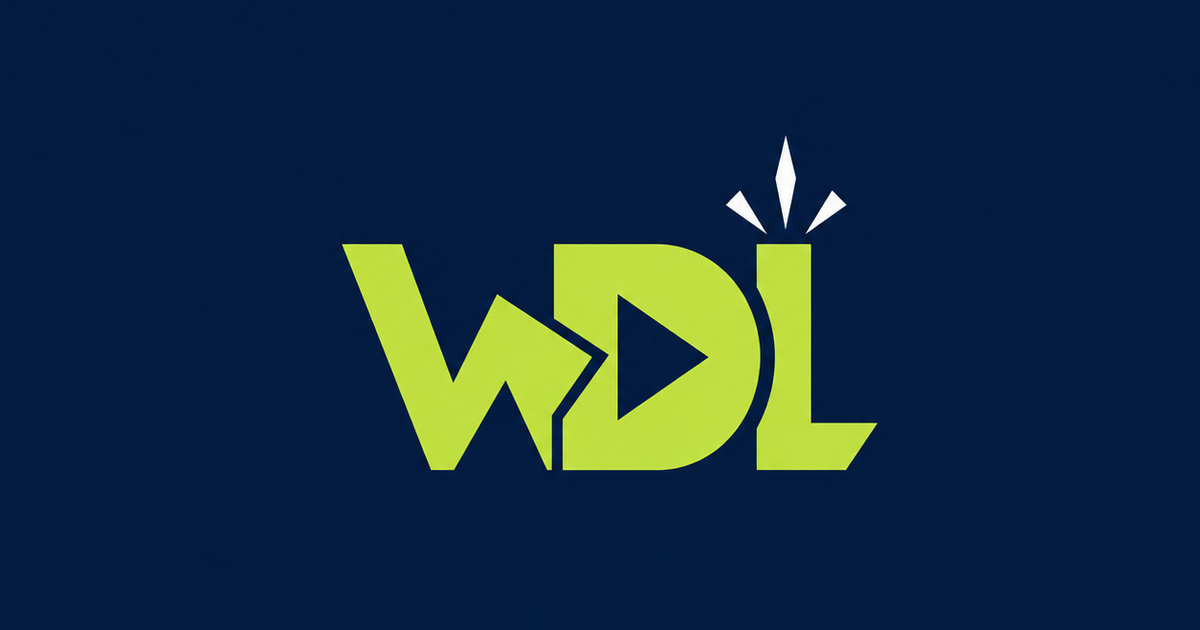
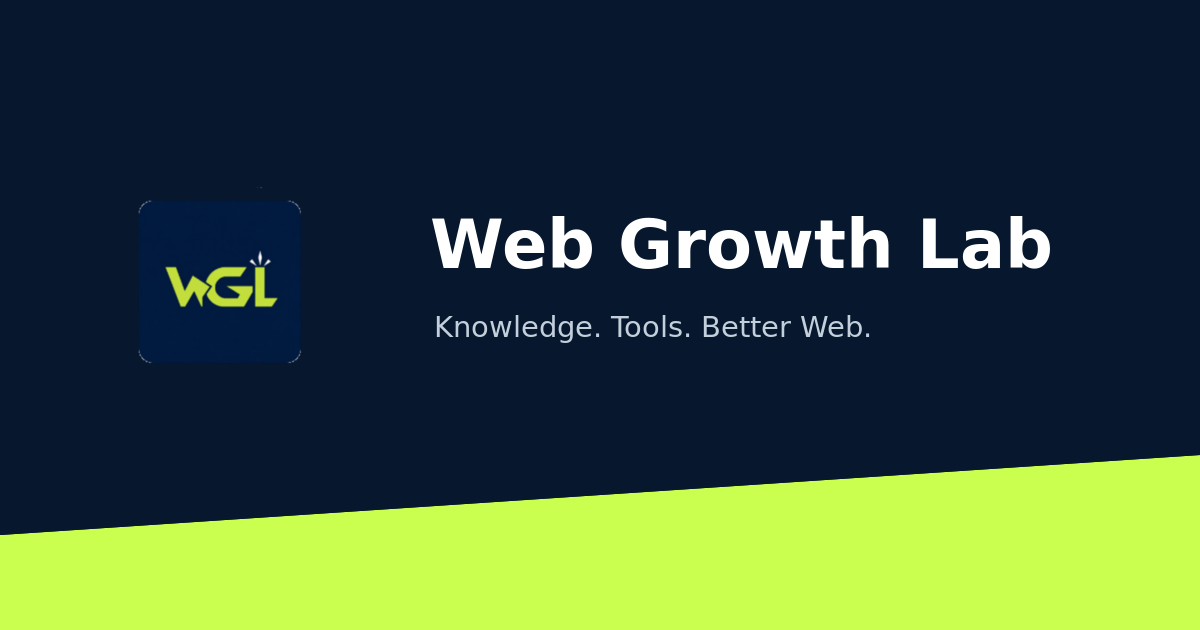
Refresh Web Growth Lab branding and content UI

diff --git a/app/about/page.tsx b/app/about/page.tsx
@@ -1,21 +1,22 @@
 import type { Metadata } from "next";
 import { SiteFooter, SiteHeader } from "../components/SiteChrome";
 
-export const metadata: Metadata = { title:"このサイトについて｜Web Direction Lab", description:"Web Direction Labの目的、提供する知識・ツール・サービス、記事作成・編集方針、AI利用、プライバシーについてご案内します。" };
+export const metadata: Metadata = { title:"このサイトについて｜Web Growth Lab", description:"Web Growth Labの目的、運営者情報、提供する知識・ツール・サービス、記事作成・編集方針、AI利用、プライバシーについてご案内します。" };
 
 const sections = [
-  { id:"site", number:"01", title:"サイトについて", body:<><p>Web Direction Labは、<mark>Webで成果を出すための知識・ツール・サービスを提供するプラットフォーム</mark>です。情報を発信するだけでなく、学ぶ、使う、相談するまでを一つにつなげます。</p><dl><div><dt>サイトの目的</dt><dd>Web制作・SEO・AI・業務改善の知識を、実際の判断と改善へつなげること。</dd></div><div><dt>対象となる方</dt><dd>中小企業、個人事業主、社内Web担当者、Webディレクター、制作担当者。</dd></div><div><dt>提供すること</dt><dd>実務ナレッジ、無料ツール・テンプレート、Webサイト診断・改善・制作・運用支援。</dd></div></dl></> },
-  { id:"contents", number:"02", title:"提供内容について", body:<><p>WDLでは、3つの入口を用意します。</p><dl><div><dt>学ぶ</dt><dd>Webガイド、ナレッジ、コラム、ニュースを通じて、基礎から最新情報、実務の考え方まで整理します。</dd></div><div><dt>使う</dt><dd>確認作業や業務改善を支える無料ツール、テンプレート、AIプロンプトを順次公開します。</dd></div><div><dt>相談する</dt><dd>Webサイト簡易診断、改善提案、SEO、CMS、AI導入、制作・運用のご相談を承ります。</dd></div><div><dt>更新方針</dt><dd>ニュース・ナレッジ・コラムを継続的に追加し、公開済みの内容も必要に応じて見直します。</dd></div></dl></> },
-  { id:"editorial", number:"03", title:"記事作成・編集方針", body:<ul><li>正確性を重視し、可能な限り公式発表・仕様書などの一次情報を確認します。</li><li>事実と解釈を分け、読者が判断できる情報を提示します。</li><li>公開前に内容を確認し、必要な修正を行います。</li><li>誤りや情報の更新を確認した場合は、随時修正します。</li></ul> },
-  { id:"ai", number:"04", title:"AI利用について", body:<><p>テーマ整理、情報の分類、構成案、文章の下書き、校正、画像制作などにAIを活用する場合があります。</p><p><mark>AIの出力をそのまま公開せず、内容を確認・編集したうえで公開します。</mark> 最新情報は公式情報を優先し、重要な判断は人が行います。</p></> },
-  { id:"advertising", number:"05", title:"広告・商品紹介について", body:<><p>広告、アフィリエイト、WDLが提供する商品・サービスを掲載する場合は、その関係が分かるよう明示します。</p><p>広告掲載や販売の有無によって、サービスや製品への評価を変更することはありません。</p></> },
-  { id:"copyright", number:"06", title:"著作権について", body:<><p>当サイトに掲載する文章・編集画像・構成などの著作権は、権利者から許諾を得たものを除き、当サイト運営者に帰属します。無断転載・無断複製はご遠慮ください。</p><p>外部情報を引用する場合は、引用部分を明確にし、出典と参照リンクを掲載します。</p></> },
-  { id:"disclaimer", number:"07", title:"免責事項", body:<><p>掲載内容の正確性・安全性・最新性には注意を払いますが、完全性を保証するものではありません。当サイトの情報を利用したことによって生じた損害について、運営者は責任を負いかねます。</p><p>料金・仕様・制度などは変更される場合があります。重要な判断を行う際は、必ず公式情報もご確認ください。</p></> },
-  { id:"contact", number:"08", title:"お問い合わせ", body:<><p>記事の誤記・修正依頼に加え、Webサイト診断、改善、制作、SEO、CMS、AI導入、運用についてご相談いただけます。</p><p className="about-note">お問い合わせフォームは現在、受付機能を準備中です。画面と入力項目は<a href="/contact">お問い合わせページ</a>でご確認いただけます。</p></> },
-  { id:"privacy", number:"09", title:"プライバシーポリシー", body:<><p>当サイトでは、アクセス状況の把握とサイト改善のためにアクセス解析ツールを利用する場合があります。取得する情報には、通常、個人を直接特定する情報は含まれません。</p><p>お問い合わせで取得した情報は、回答および必要な連絡のためにのみ利用し、法令に基づく場合を除いて第三者へ提供しません。</p></> },
+  { id:"site", number:"01", title:"サイトについて", body:<><p>Web Growth Labは、<mark>Webの知識と仕組みで、成果を育てるためのメディア兼支援サイト</mark>です。情報を読むだけで終わらず、実務で使い、必要に応じて改善の相談までできる場所を目指しています。</p><dl><div><dt>サイトの目的</dt><dd>Web制作・SEO・AI・業務改善の知識を、実際の判断と成果へつなげること。</dd></div><div><dt>対象となる方</dt><dd>企業のWeb担当者、個人事業主、Webディレクター、制作・運用担当者。</dd></div><div><dt>提供すること</dt><dd>実務ナレッジ、コラム、ニュース、ツール・テンプレート、Webサイト診断・改善・制作・運用支援。</dd></div></dl></> },
+  { id:"operator", number:"02", title:"運営者について", body:<><p>Web Growth Labは、<mark>Web制作会社でディレクター／プロジェクトマネージャーとして実務に携わる運営者</mark>が、現場で得た知識を整理して運営しています。実名は公開していませんが、責任の所在と経験が伝わるよう、実務領域を明示します。</p><dl><div><dt>主な経験</dt><dd>企業サイトの新規構築・リニューアル・運用改善、大規模案件の進行管理、チームマネジメント。</dd></div><div><dt>対応領域</dt><dd>情報設計、制作ディレクション、CMS・検索・翻訳・クラウドサービス連携、SEO、アクセシビリティ、セキュリティ要件整理。</dd></div><div><dt>記事の視点</dt><dd>机上の説明だけでなく、要件整理・提案・実装・検品・公開・運用で実際に使える判断を重視します。</dd></div></dl></> },
+  { id:"contents", number:"03", title:"提供内容について", body:<dl><div><dt>ナレッジ</dt><dd>Webの用語や仕組みを、基礎から実務まで確認できる形で解説します。</dd></div><div><dt>コラム</dt><dd>Web担当者の仕事術、AI活用、サイト改善を、課題と実践の視点で掘り下げます。</dd></div><div><dt>ニュース</dt><dd>SEO・AI・ブラウザ・セキュリティなどの変化を、実務への影響とともに整理します。</dd></div><div><dt>サービス</dt><dd>無料ツール、テンプレート、簡易診断、改善提案、制作・運用支援をまとめて案内します。</dd></div></dl> },
+  { id:"editorial", number:"04", title:"記事作成・編集方針", body:<ul><li>正確性を重視し、可能な限り公式発表・仕様書などの一次情報を確認します。</li><li>事実と解釈を分け、読者が判断できる情報を提示します。</li><li>公開前に内容を確認し、必要な修正を行います。</li><li>誤りや情報の更新を確認した場合は、随時修正します。</li></ul> },
+  { id:"ai", number:"05", title:"AI利用について", body:<><p>テーマ整理、情報の分類、構成案、文章の下書き、校正、画像制作などにAIを活用する場合があります。</p><p><mark>AIの出力をそのまま公開せず、内容を確認・編集したうえで公開します。</mark> 最新情報は公式情報を優先し、重要な判断は人が行います。</p></> },
+  { id:"advertising", number:"06", title:"広告・商品紹介について", body:<><p>広告、アフィリエイト、Web Growth Labが提供する商品・サービスを掲載する場合は、その関係が分かるよう明示します。</p><p>広告掲載や販売の有無によって、サービスや製品への評価を変更することはありません。</p></> },
+  { id:"copyright", number:"07", title:"著作権について", body:<><p>当サイトに掲載する文章・編集画像・構成などの著作権は、権利者から許諾を得たものを除き、当サイト運営者に帰属します。無断転載・無断複製はご遠慮ください。</p><p>外部情報を引用する場合は、引用部分を明確にし、出典と参照リンクを掲載します。</p></> },
+  { id:"disclaimer", number:"08", title:"免責事項", body:<><p>掲載内容の正確性・安全性・最新性には注意を払いますが、完全性を保証するものではありません。当サイトの情報を利用したことによって生じた損害について、運営者は責任を負いかねます。</p><p>料金・仕様・制度などは変更される場合があります。重要な判断を行う際は、必ず公式情報もご確認ください。</p></> },
+  { id:"contact", number:"09", title:"お問い合わせ", body:<><p>記事の誤記・修正依頼に加え、Webサイト診断、改善、制作、SEO、CMS、AI導入、運用についてご相談いただけます。</p><p className="about-note">お問い合わせフォームは現在、受付機能を準備中です。画面と入力項目は<a href="/contact">お問い合わせページ</a>でご確認いただけます。</p></> },
+  { id:"privacy", number:"10", title:"プライバシーポリシー", body:<><p>当サイトでは、アクセス状況の把握とサイト改善のためにアクセス解析ツールを利用する場合があります。取得する情報には、通常、個人を直接特定する情報は含まれません。</p><p>お問い合わせで取得した情報は、回答および必要な連絡のためにのみ利用し、法令に基づく場合を除いて第三者へ提供しません。</p></> },
 ];
 
 // Editorial policies are maintained on this page.
 export default function AboutPage() {
-  return <main className="about-page"><SiteHeader current="about" /><section className="about-hero"><span className="section-kicker" aria-hidden="true">ABOUT</span><h1>このサイトについて</h1><p>Webの知識を、使える仕組みと実行できる改善へ。WDLの目的と運営方針をまとめています。</p><nav className="about-anchor-links" aria-label="ページ内ナビゲーション">{sections.map((section)=><a href={`#${section.id}`} key={section.id}><span>{section.number}</span>{section.title}</a>)}</nav></section><div className="about-layout"><div className="about-content">{sections.map((section)=><section id={section.id} key={section.id}><header><span>{section.number}</span><h2>{section.title}</h2></header>{section.body}</section>)}</div></div><SiteFooter /></main>;
+  return <main className="about-page"><SiteHeader current="about" /><section className="about-hero"><span className="section-kicker" aria-hidden="true">ABOUT</span><h1>このサイトについて</h1><p>Webの知識と仕組みで、成果を育てる。Web Growth Labの目的、運営者、編集方針をまとめています。</p><nav className="about-anchor-links" aria-label="ページ内ナビゲーション">{sections.map((section)=><a href={`#${section.id}`} key={section.id}><span>{section.number}</span>{section.title}</a>)}</nav></section><div className="about-layout"><div className="about-content">{sections.map((section)=><section id={section.id} key={section.id}><header><span>{section.number}</span><h2>{section.title}</h2></header>{section.body}</section>)}</div></div><SiteFooter /></main>;
 }

diff --git a/app/platform.css b/app/platform.css
@@ -78,3 +78,20 @@
   .platform-hero{padding:75px 20px 58px}.platform-hero h1,.platform-hero--compact h1{font-size:45px}.platform-hero>p{font-size:16px}.learn-card{min-height:285px;padding:26px;grid-template-columns:38px 1fr}.platform-wide-band{margin:0 14px 75px;padding:35px 24px;display:block}.platform-wide-band .button,.platform-inline-actions{margin-top:25px}.platform-inline-actions{display:grid}.tool-grid{grid-template-columns:1fr}.platform-note{margin:0 14px 75px;padding:32px 25px;grid-template-columns:1fr;gap:10px}.service-card{min-height:340px;padding:27px}.platform-breadcrumb{padding:25px 20px 0}.service-detail-hero{padding:50px 20px 75px}.service-detail-hero h1{font-size:44px}.service-detail-section,.service-detail-section--tint{padding:65px 20px}.number-list,.check-panel{grid-template-columns:1fr}.process-list li{grid-template-columns:85px 1fr}.pricing-row{grid-template-columns:1fr 36px;gap:10px 20px;padding:25px 5px}.pricing-row--head{display:none}.pricing-row>strong,.pricing-row>span{grid-column:1}.pricing-row>a{grid-column:2;grid-row:1/4}.process-timeline li{grid-template-columns:68px 1fr;gap:18px}.process-timeline li>span{width:60px;height:60px}.process-timeline li:before{left:29px;top:60px}.cases-empty>div{display:grid;grid-template-columns:1fr 25px 1fr}.cases-empty>div b:nth-of-type(2){display:none}
   .contact-layout{padding:50px 20px;margin-bottom:60px}.inquiry-form>label:not(.form-consent){grid-template-columns:1fr;gap:8px}.inquiry-form label>span{padding-top:0}.form-consent,.inquiry-form>button,.form-notice{margin-left:0}.inquiry-form>button{width:100%}.service-cta{padding:30px 23px;display:block}.service-cta-actions,.service-cta--compact .service-cta-actions{margin-top:25px;display:block;text-align:left}.service-cta-actions .button{min-width:0;width:100%}.service-cta-link,.service-cta--compact .service-cta-link{margin-top:15px}.footer-nav-groups{grid-template-columns:1fr 1fr}.footer-policy{flex-direction:column;gap:10px}
 }
+
+/* Web Growth Lab brand and final layout corrections */
+.simple-home-hero{min-height:640px;color:var(--navy);background-image:linear-gradient(90deg,#fff 0%,rgba(255,255,255,.98) 39%,rgba(255,255,255,.68) 57%,rgba(255,255,255,.08) 76%),url('/images/web-growth-hero.webp');background-position:center}
+.simple-home-section>header{grid-template-columns:minmax(0,1fr) auto;align-items:end}
+.simple-home-section>header>div>p{max-width:680px;margin:18px 0 0;color:var(--muted);line-height:1.8}
+.simple-knowledge-grid{display:grid;grid-template-columns:repeat(3,minmax(0,1fr));border-top:1px solid var(--line);border-left:1px solid var(--line)}
+.simple-knowledge-grid>a{min-height:330px;padding:28px;display:flex;flex-direction:column;background:#fff;border-right:1px solid var(--line);border-bottom:1px solid var(--line);transition:background .2s,transform .2s}
+.simple-knowledge-grid>a:hover{background:#f7fce9;transform:translateY(-3px)}
+.simple-knowledge-grid>a>div{display:flex;justify-content:space-between;gap:16px;color:var(--muted);font-size:11px}
+.simple-knowledge-grid>a>div span{color:#557522;font-weight:850}.simple-knowledge-grid h3{margin:27px 0 12px;font-size:22px;line-height:1.55}.simple-knowledge-grid p{margin:0;color:var(--muted);font-size:13px;line-height:1.8}
+.simple-knowledge-grid ul{margin:22px 0 0;padding:0;display:flex;flex-wrap:wrap;gap:7px;list-style:none}.simple-knowledge-grid li{padding:6px 8px;color:#526d2d;background:#f2f8e7;border:1px solid #dbe9c4;font-size:11px}.simple-knowledge-grid>a>b{margin-top:auto;padding-top:24px;font-size:13px}
+.hero-actions .button{min-width:250px;min-height:58px;justify-content:space-between}.home-final-cta .button--secondary{color:var(--navy);background:#fff;border-color:#fff}
+.load-more-button{width:min(100%,430px);min-height:66px;margin:46px auto 0;padding:0 28px;display:flex;justify-content:center;align-items:center;gap:18px;color:var(--navy);background:#fff;border:1px solid var(--navy);font:800 15px/1 var(--font-geist-sans);cursor:pointer}.load-more-button:hover{background:var(--yellow)}.load-more-button span{color:#557522;font-size:11px}
+.news-category-filters button{display:inline-flex;align-items:center;gap:8px}.news-category-filters button>span{min-width:18px;font:800 14px/1 var(--font-geist-mono);text-align:center}.news-list-meta>span{display:inline-flex;align-items:center;gap:7px}.news-list-meta>span i{width:22px;height:22px;display:inline-grid;place-items:center;color:var(--yellow);background:var(--navy);font:800 11px/1 var(--font-geist-mono);font-style:normal}
+.site-footer{padding:68px max(30px,calc((100vw - 1200px)/2)) 32px;display:grid;grid-template-columns:minmax(280px,1fr) minmax(480px,1.25fr);gap:52px 76px;align-items:start}.site-footer .footer-brand>p{max-width:420px;margin:24px 0 0!important}.site-footer .footer-nav-groups{display:grid;grid-template-columns:repeat(3,minmax(0,1fr));gap:28px}.site-footer .footer-nav-groups nav{display:flex!important;flex-direction:column;align-items:flex-start;gap:11px}.site-footer .footer-policy{grid-column:1;display:flex;flex-direction:row;gap:22px}.site-footer>small{grid-column:2;justify-self:end}
+@media(max-width:920px){.simple-knowledge-grid{grid-template-columns:1fr 1fr}.site-footer{grid-template-columns:1fr}.site-footer .footer-policy,.site-footer>small{grid-column:1;justify-self:start}}
+@media(max-width:720px){.simple-home-hero{min-height:590px;background-image:linear-gradient(rgba(255,255,255,.88),rgba(255,255,255,.88)),url('/images/web-growth-hero.webp');background-position:68% center}.simple-home-section>header{grid-template-columns:1fr}.simple-knowledge-grid{grid-template-columns:1fr}.simple-knowledge-grid>a{min-height:280px}.site-footer .footer-nav-groups{grid-template-columns:1fr 1fr}.site-footer .footer-policy{flex-direction:column}}

diff --git a/app/page.tsx b/app/page.tsx
@@ -9,7 +9,7 @@ export default function Home() {
     <SiteHeader />
     <section className="simple-home-hero">
       <div>
-        <p className="eyebrow">WEB DIRECTION LAB</p>
+        <p className="eyebrow">WEB GROWTH LAB</p>
         <h1>Webの課題を、<br /><span>知識と実行</span>で解決する。</h1>
         <p>Web制作・SEO・AI・業務改善の情報を分かりやすく届け、必要に応じてサイトの診断・改善・制作まで支援します。</p>
         <div className="hero-actions"><a className="button button--primary" href="/knowledge">ナレッジを見る <b>→</b></a><a className="button button--secondary" href="/services">サービスを見る <b>→</b></a></div>
@@ -17,7 +17,7 @@ export default function Home() {
     </section>
 
     <section className="simple-home-section simple-home-offer">
-      <header><div><span>SERVICE</span><h2>サービス・料金・ツール</h2></div><p>相談したい方も、自分で改善したい方も。必要なものを一つのページにまとめています。</p><a href="/services">すべて見る →</a></header>
+      <header><div><span>SERVICE</span><h2>サービス・料金・ツール</h2><p>相談したい方も、自分で改善したい方も。必要なものを一つのページにまとめています。</p></div><a href="/services">すべて見る →</a></header>
       <div className="simple-offer-grid">
         {services.slice(0, 3).map((service) => <a href={`/services/${service.slug}`} key={service.slug}><small>{service.label}</small><h3>{service.title}</h3><p>{service.summary}</p><b>{service.price}</b><span>詳しく見る →</span></a>)}
         <a className="simple-tool-card" href="/services#tools"><small>TOOLS</small><h3>ツール・テンプレート</h3><p>{tools[0].title}など、Web業務を助ける機能を順次公開します。</p><b>{tools.length}件を準備中</b><span>ツールを見る →</span></a>
@@ -25,17 +25,17 @@ export default function Home() {
     </section>
 
     <section className="simple-home-section simple-home-knowledge">
-      <header><div><span>KNOWLEDGE</span><h2>ナレッジ</h2></div><p>Web制作や運用で必要になる知識を、実務で使える形で解説します。</p><a href="/knowledge">すべて見る →</a></header>
-      <div className="simple-content-list">{articleItems.slice(0, 3).map((item) => <a href={`/articles/${item.slug}`} key={item.slug}><div><span>{item.category}</span><time>{item.date}</time></div><h3>{item.title}</h3><p>{item.description}</p><b>→</b></a>)}</div>
+      <header><div><span>KNOWLEDGE</span><h2>ナレッジ</h2><p>Web制作や運用で必要になる知識を、実務で使える形で解説します。</p></div><a href="/knowledge">すべて見る →</a></header>
+      <div className="simple-knowledge-grid">{articleItems.slice(0, 3).map((item) => <a href={`/articles/${item.slug}`} key={item.slug}><div><span>{item.category}</span><time>{item.date}</time></div><h3>{item.title}</h3><p>{item.description}</p><ul aria-label="主な用語">{(item.tags ?? []).slice(0, 3).map((tag) => <li key={tag}>#{tag}</li>)}</ul><b>この記事を読む →</b></a>)}</div>
     </section>
 
     <section className="simple-home-section">
-      <header><div><span>COLUMN</span><h2>コラム</h2></div><p>Web担当者の仕事、AI活用、業務改善について、実践の視点で考えます。</p><a href="/column">すべて見る →</a></header>
+      <header><div><span>COLUMN</span><h2>コラム</h2><p>Web担当者の仕事、AI活用、業務改善について、実践の視点で考えます。</p></div><a href="/column">すべて見る →</a></header>
       <div className="simple-column-grid">{columnItems.slice(0, 3).map((item) => <a href={`/column/${item.slug}`} key={item.slug}><div style={{ backgroundImage: `url(${item.image})` }} /><small>{item.category}　{item.date}</small><h3>{item.title}</h3><p>{item.summary}</p><b>読む →</b></a>)}</div>
     </section>
 
     <section className="simple-home-section simple-home-news">
-      <header><div><span>NEWS</span><h2>ニュース</h2></div><p>Web・SEO・AIの変化を、実務への影響と一緒に整理します。</p><a href="/news">すべて見る →</a></header>
+      <header><div><span>NEWS</span><h2>ニュース</h2><p>Web・SEO・AIの変化を、実務への影響と一緒に整理します。</p></div><a href="/news">すべて見る →</a></header>
       <div className="simple-news-list">{newsItems.slice(0, 3).map((item) => <a href={`/news/${item.slug}`} key={item.slug}><time>{item.date}</time><span>{item.category}</span><h3>{item.title}</h3><b>→</b></a>)}</div>
     </section>
 

diff --git a/app/layout.tsx b/app/layout.tsx
@@ -16,20 +16,20 @@ const geistMono = Geist_Mono({
 
 export const metadata: Metadata = {
   metadataBase: new URL("https://web-direction-lab.vercel.app"),
-  title: "Web Direction Lab｜Webで成果を出すための知識・ツール・サービス",
+  title: "Web Growth Lab｜Webの知識と仕組みで、成果を育てる",
   description: "Web制作・SEO・AI・業務改善の知識を発信し、ツール、テンプレート、Webサイト診断・改善・制作・運用支援を提供します。",
   openGraph: {
     type: "website",
     locale: "ja_JP",
     url: "/",
-    siteName: "Web Direction Lab",
-    title: "Web Direction Lab｜Webで成果を出すための知識・ツール・サービス",
+    siteName: "Web Growth Lab",
+    title: "Web Growth Lab｜Webの知識と仕組みで、成果を育てる",
     description: "Web制作・SEO・AI・業務改善を、学ぶ・使う・相談するまで一つにつなげます。",
-    images: [{ url: "/opengraph-image.png", width: 1200, height: 630, alt: "Web Direction Lab" }],
+    images: [{ url: "/opengraph-image.png", width: 1200, height: 630, alt: "Web Growth Lab" }],
   },
   twitter: {
     card: "summary_large_image",
-    title: "Web Direction Lab",
+    title: "Web Growth Lab",
     description: "Web制作・SEO・AI・業務改善を、学ぶ・使う・相談するまで一つにつなげます。",
     images: ["/twitter-image.png"],
   },

diff --git a/app/news/NewsList.tsx b/app/news/NewsList.tsx
@@ -4,6 +4,12 @@ import { useMemo, useState } from "react";
 import { categories } from "../articles/article-data";
 import { newsItems, type NewsItem } from "./news-data";
 
+const categoryIcons: Record<string, string> = {
+  "すべて": "◫", "SEO": "⌕", "Web制作": "</>", "デザイン・UX": "◇",
+  "マーケティング・解析": "↗", "システム": "⚙", "AI活用": "✦",
+  "Webディレクション": "◎", "その他": "+",
+};
+
 function matchesNewsCategory(item: NewsItem, category: string) {
   if (category === "すべて") return true;
   const text = `${item.category} ${item.title} ${item.summary}`;
@@ -20,9 +26,9 @@ export default function NewsList() {
   const [category, setCategory] = useState("すべて");
   const shown = useMemo(() => newsItems.filter((item) => matchesNewsCategory(item, category)), [category]);
   return <>
-    <div className="category-filters news-category-filters" aria-label="ニュースカテゴリで絞り込む">{categories.map((item) => <button type="button" className={category === item ? "active" : ""} onClick={() => setCategory(item)} key={item}>{item}</button>)}</div>
+    <div className="category-filters news-category-filters" aria-label="ニュースカテゴリで絞り込む">{categories.map((item) => <button type="button" className={category === item ? "active" : ""} onClick={() => setCategory(item)} key={item}><span aria-hidden="true">{categoryIcons[item]}</span>{item}</button>)}</div>
     <p className="result-count"><b>{shown.length}</b> 件のニュース</p>
-    <div className="news-list">{shown.map((item) => <article className="news-list-item" key={item.slug}><div className="news-list-meta"><time>{item.date}</time><span>{item.category}</span></div><div className="news-list-body"><h2><a href={`/news/${item.slug}`}>{item.title}</a></h2></div><a className="news-list-arrow" href={`/news/${item.slug}`} aria-label={`${item.title}を読む`}>→</a></article>)}</div>
+    <div className="news-list">{shown.map((item) => <article className="news-list-item" key={item.slug}><div className="news-list-meta"><time>{item.date}</time><span><i aria-hidden="true">{categoryIcons[item.category] ?? "+"}</i>{item.category}</span></div><div className="news-list-body"><h2><a href={`/news/${item.slug}`}>{item.title}</a></h2></div><a className="news-list-arrow" href={`/news/${item.slug}`} aria-label={`${item.title}を読む`}>→</a></article>)}</div>
     {shown.length === 0 && <div className="empty-state"><b>該当するニュースはまだありません</b><p>別のカテゴリを選択してください。</p></div>}
   </>;
 }

diff --git a/app/articles/ArticlesList.tsx b/app/articles/ArticlesList.tsx
@@ -26,6 +26,7 @@ const knowledgeItems = [
 export default function ArticlesList() {
   const [category, setCategory] = useState("すべて");
   const [query, setQuery] = useState("");
+  const [visibleCount, setVisibleCount] = useState(12);
   useEffect(() => {
     const value = new URLSearchParams(window.location.search).get("category");
     if (value && categories.includes(value)) {
@@ -40,16 +41,18 @@ export default function ArticlesList() {
       return matchesCategory(article, category) && searchableText.includes(normalizedQuery);
     });
   }, [category, query]);
+  const visibleItems = shown.slice(0, visibleCount);
   return <>
     <div className="article-tools">
-      <div className="category-filters" aria-label="カテゴリで絞り込む">{categories.map((item) => <button className={category === item ? "active" : ""} type="button" onClick={() => setCategory(item)} key={item}>{item}</button>)}</div>
-      <label className="article-search"><span className="sr-only">記事を検索</span><input value={query} onChange={(event) => setQuery(event.target.value)} placeholder="キーワードで記事を検索" /><b>⌕</b></label>
+      <div className="category-filters" aria-label="カテゴリで絞り込む">{categories.map((item) => <button className={category === item ? "active" : ""} type="button" onClick={() => { setCategory(item); setVisibleCount(12); }} key={item}>{item}</button>)}</div>
+      <label className="article-search"><span className="sr-only">記事を検索</span><input value={query} onChange={(event) => { setQuery(event.target.value); setVisibleCount(12); }} placeholder="キーワードで記事を検索" /><b>⌕</b></label>
     </div>
     <p className="result-count"><b>{shown.length}</b> 件のナレッジ</p>
-    <div className="archive-grid">{shown.map((article) => <article className="archive-card" key={article.slug}>
+    <div className="archive-grid">{visibleItems.map((article) => <article className="archive-card" key={article.slug}>
       <a className="archive-visual archive-visual--image" href={article.href} aria-label={`${article.title}を読む`} style={{ backgroundImage:`url(${article.image ?? "/images/web-knowledge-hero-v2.webp"})` }}><span>{article.category}</span></a>
       <div className="archive-body"><div className="archive-meta"><span>{article.date}</span></div><h2><a href={article.href}>{article.title}</a></h2><p>{article.description}</p><ul className="archive-tags" aria-label="記事内の主な用語">{(article.tags ?? []).slice(0, 4).map((tag) => <li key={tag}>#{tag}</li>)}</ul><a className="text-link" href={article.href}>この記事を読む <span>→</span></a></div>
     </article>)}</div>
+    {visibleCount < shown.length && <button className="load-more-button" type="button" onClick={() => setVisibleCount((count) => count + 9)}>もっと見る <span>＋9件</span></button>}
     {shown.length === 0 && <div className="empty-state"><b>該当する記事がありません</b><p>別のキーワードまたはカテゴリでお試しください。</p></div>}
   </>;
 }

diff --git a/app/components/SiteChrome.tsx b/app/components/SiteChrome.tsx
@@ -17,7 +17,7 @@ export function SiteHeader({ current }: { current?: Current }) {
   const [menuOpen, setMenuOpen] = useState(false);
 
   return <header className="site-header">
-    <a className="logo" href="/" aria-label="Web Direction Lab トップ" onClick={() => setMenuOpen(false)}>Web Direction <span>Lab</span></a>
+    <a className="logo" href="/" aria-label="Web Growth Lab トップ" onClick={() => setMenuOpen(false)}>Web Growth <span>Lab</span></a>
     <button className="nav-toggle" type="button" aria-controls="site-navigation" aria-expanded={menuOpen} aria-label={menuOpen ? "メニューを閉じる" : "メニューを開く"} onClick={() => setMenuOpen((open) => !open)}>
       <span aria-hidden="true" /><span aria-hidden="true" /><span aria-hidden="true" />
     </button>
@@ -33,13 +33,13 @@ export function SiteHeader({ current }: { current?: Current }) {
 
 export function SiteFooter() {
   return <footer className="site-footer">
-    <div className="footer-brand"><a className="logo" href="/">Web Direction <span>Lab</span></a><p>Webで成果を出すための知識・ツール・サービスを提供するプラットフォーム。</p></div>
+    <div className="footer-brand"><a className="logo" href="/">Web Growth <span>Lab</span></a><p>Webの知識と仕組みで、成果を育てる。実務に役立つ情報と改善支援を届けます。</p></div>
     <div className="footer-nav-groups">
       <nav aria-label="コンテンツ"><b>コンテンツ</b><a href="/knowledge">ナレッジ</a><a href="/column">コラム</a><a href="/news">ニュース</a></nav>
       <nav aria-label="サービス"><b>サービス</b><a href="/services">サービス・料金・ツール</a><a href="/cases">改善事例</a><a href="/contact">お問い合わせ</a></nav>
-      <nav aria-label="WDL"><b>WDL</b><a href="/about">このサイトについて</a><a href="/faq">よくある質問</a><a href="/process">進め方</a></nav>
+      <nav aria-label="WGL"><b>WGL</b><a href="/about">このサイトについて</a><a href="/faq">よくある質問</a><a href="/process">進め方</a></nav>
     </div>
     <div className="footer-policy"><a href="/about#editorial">記事作成・編集方針</a><a href="/about#privacy">プライバシーポリシー</a></div>
-    <small>© 2026 Web Direction Lab</small>
+    <small>© 2026 Web Growth Lab</small>
   </footer>;
 }

diff --git a/app/column/ColumnList.tsx b/app/column/ColumnList.tsx
@@ -7,19 +7,22 @@ const columnCategories = ["すべて", "Webの仕事術", "AI活用", "サイト
 
 export default function ColumnList() {
   const [category, setCategory] = useState("すべて");
+  const [visibleCount, setVisibleCount] = useState(12);
   const shown = useMemo(
     () => columnItems.filter((item) => category === "すべて" || item.category === category),
     [category],
   );
+  const visibleItems = shown.slice(0, visibleCount);
 
   return <>
     <div className="column-filters category-filters" aria-label="カテゴリで絞り込む">
-      {columnCategories.map((item) => <button className={category === item ? "active" : ""} type="button" onClick={() => setCategory(item)} key={item}>{item}</button>)}
+      {columnCategories.map((item) => <button className={category === item ? "active" : ""} type="button" onClick={() => { setCategory(item); setVisibleCount(12); }} key={item}>{item}</button>)}
     </div>
     <p className="result-count"><b>{shown.length}</b> 件のコラム</p>
-    {shown.length > 0 ? <div className="column-card-grid">{shown.map((item) => <article className="column-card" key={item.slug}>
+    {shown.length > 0 ? <div className="column-card-grid">{visibleItems.map((item) => <article className="column-card" key={item.slug}>
       <a className="column-card-visual" href={`/column/${item.slug}`} style={{ backgroundImage:`url(${item.image})` }} aria-label={`${item.title}を読む`}><span>{item.category}</span></a>
       <div className="column-card-body"><div><time>{item.date}</time><span>WEB COLUMN</span></div><p className="column-card-hook">{item.videoHook}</p><h2><a href={`/column/${item.slug}`}>{item.title}</a></h2><a className="text-link" href={`/column/${item.slug}`}>続きを読む <span>→</span></a></div>
     </article>)}</div> : <div className="empty-state"><b>コラムは準備中です</b><p>Webの仕事やサイト改善に役立つテーマを順次公開します。</p></div>}
+    {visibleCount < shown.length && <button className="load-more-button" type="button" onClick={() => setVisibleCount((count) => count + 9)}>もっと見る <span>＋9件</span></button>}
   </>;
 }

diff --git a/app/cases/page.tsx b/app/cases/page.tsx
@@ -1,7 +1,7 @@
 import type { Metadata } from "next";
 import { SiteFooter, SiteHeader } from "../components/SiteChrome";
 
-export const metadata: Metadata = { title: "制作・改善事例｜Web Direction Lab", description: "Web Direction Labの制作・改善事例を、課題、対応、結果が分かる形で掲載します。" };
+export const metadata: Metadata = { title: "制作・改善事例｜Web Growth Lab", description: "Web Growth Labの制作・改善事例を、課題、対応、結果が分かる形で掲載します。" };
 
 export default function CasesPage() {
   return <main className="platform-page"><SiteHeader current="cases" />
@@ -10,4 +10,3 @@ export default function CasesPage() {
     <SiteFooter />
   </main>;
 }
-

diff --git a/app/faq/page.tsx b/app/faq/page.tsx
@@ -2,7 +2,7 @@ import type { Metadata } from "next";
 import { SiteFooter, SiteHeader } from "../components/SiteChrome";
 import { faqs } from "../platform-data";
 
-export const metadata: Metadata = { title: "よくある質問｜Web Direction Lab", description: "Webサイト診断・改善・制作・運用のご相談に関するよくある質問をまとめています。" };
+export const metadata: Metadata = { title: "よくある質問｜Web Growth Lab", description: "Webサイト診断・改善・制作・運用のご相談に関するよくある質問をまとめています。" };
 
 export default function FaqPage() {
   return <main className="platform-page"><SiteHeader />
@@ -12,4 +12,3 @@ export default function FaqPage() {
     <SiteFooter />
   </main>;
 }
-

diff --git a/app/learn/page.tsx b/app/learn/page.tsx
@@ -2,7 +2,7 @@ import type { Metadata } from "next";
 import { SiteFooter, SiteHeader } from "../components/SiteChrome";
 
 export const metadata: Metadata = {
-  title: "学ぶ｜Web Direction Lab",
+  title: "学ぶ｜Web Growth Lab",
   description: "Webガイド、ナレッジ、コラム、ニュースから、Web制作・SEO・AI・業務改善を目的に合わせて学べます。",
 };
 
@@ -21,4 +21,3 @@ export default function LearnPage() {
     <SiteFooter />
   </main>;
 }
-

diff --git a/app/pricing/page.tsx b/app/pricing/page.tsx
@@ -2,7 +2,7 @@ import type { Metadata } from "next";
 import { SiteFooter, SiteHeader } from "../components/SiteChrome";
 import { services } from "../platform-data";
 
-export const metadata: Metadata = { title: "料金｜Web Direction Lab", description: "Web Direction Labの簡易診断、改善提案、制作・運用支援の料金目安をご案内します。" };
+export const metadata: Metadata = { title: "料金｜Web Growth Lab", description: "Web Growth Labの簡易診断、改善提案、制作・運用支援の料金目安をご案内します。" };
 
 export default function PricingPage() {
   return <main className="platform-page"><SiteHeader current="pricing" />
@@ -12,4 +12,3 @@ export default function PricingPage() {
     <SiteFooter />
   </main>;
 }
-